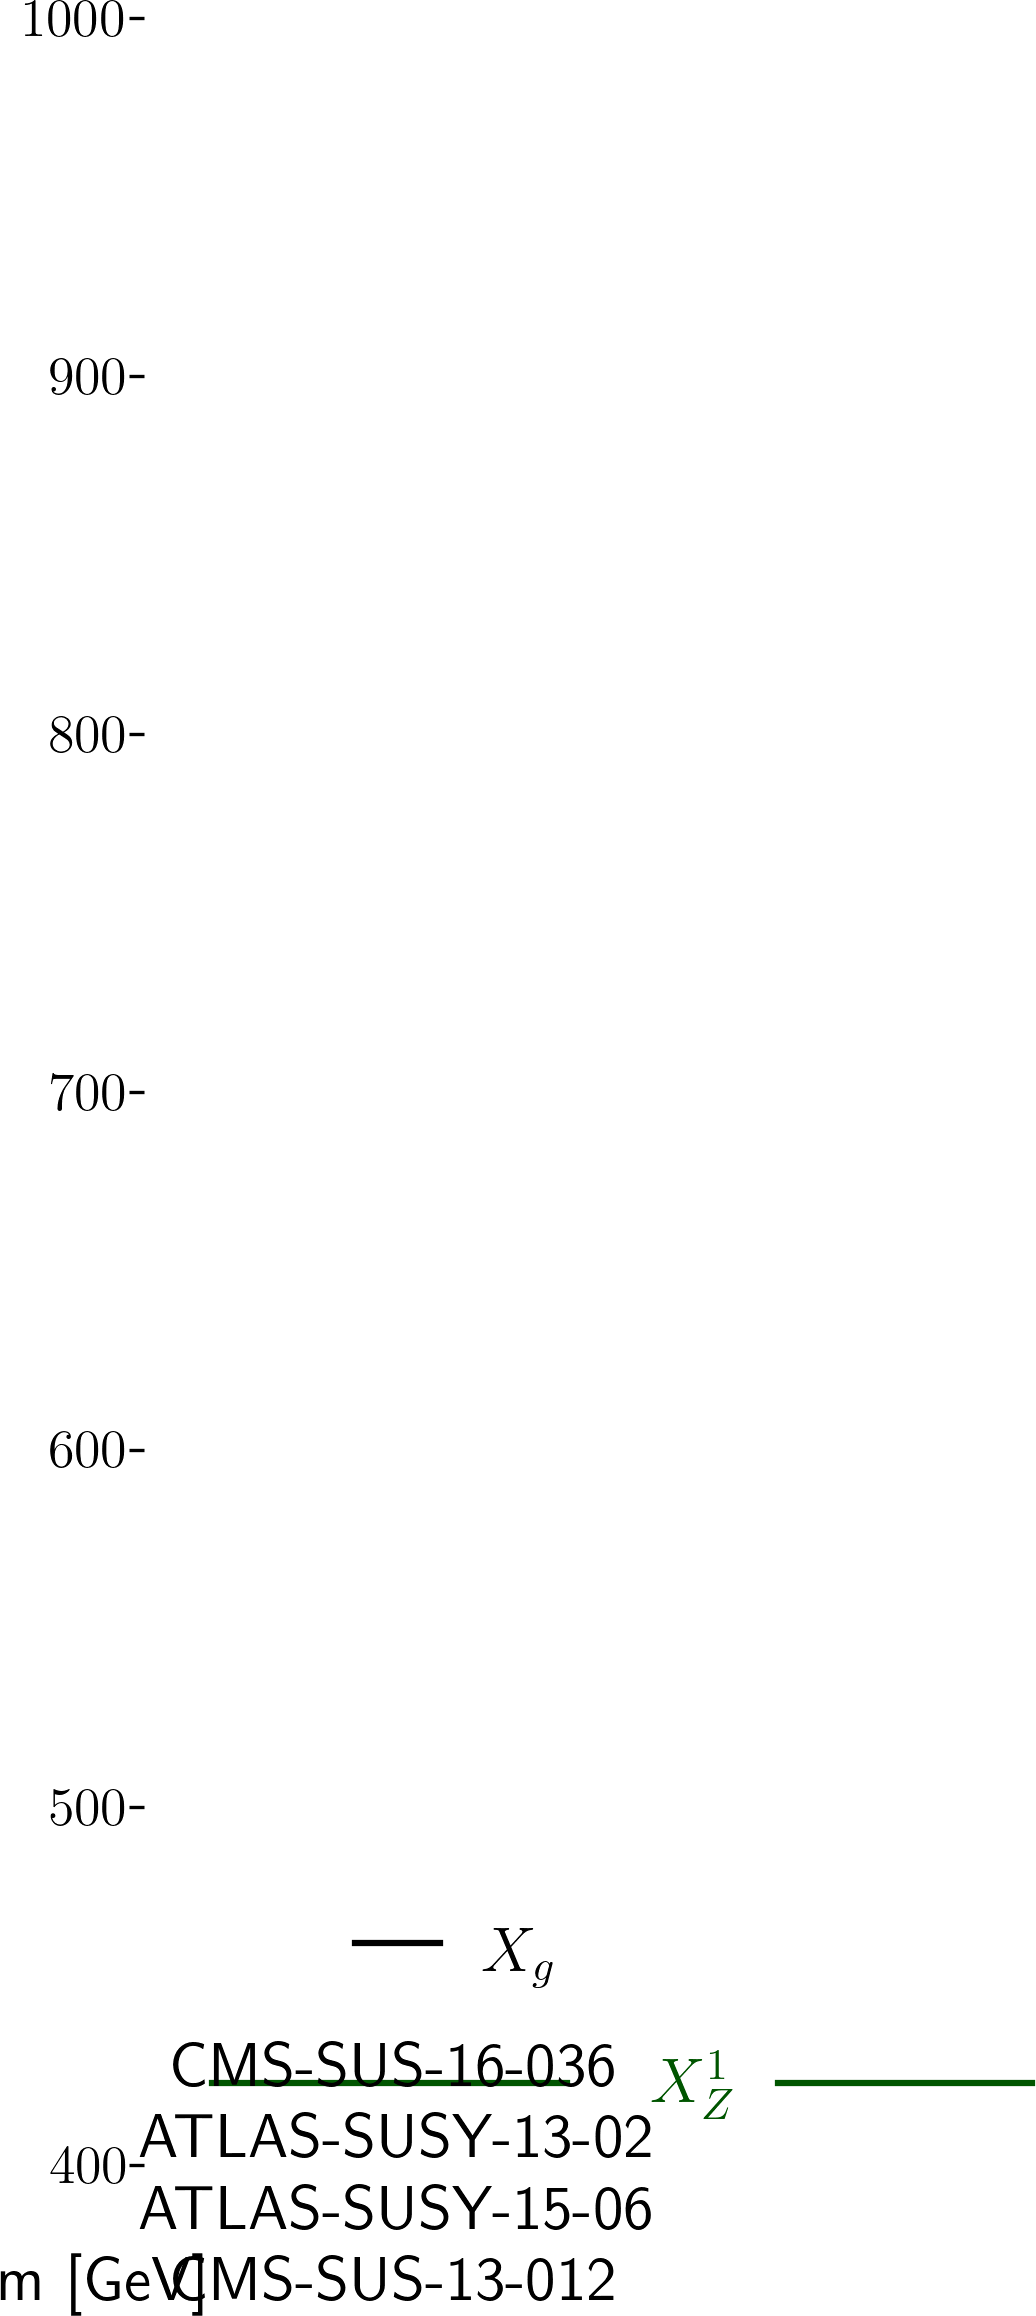
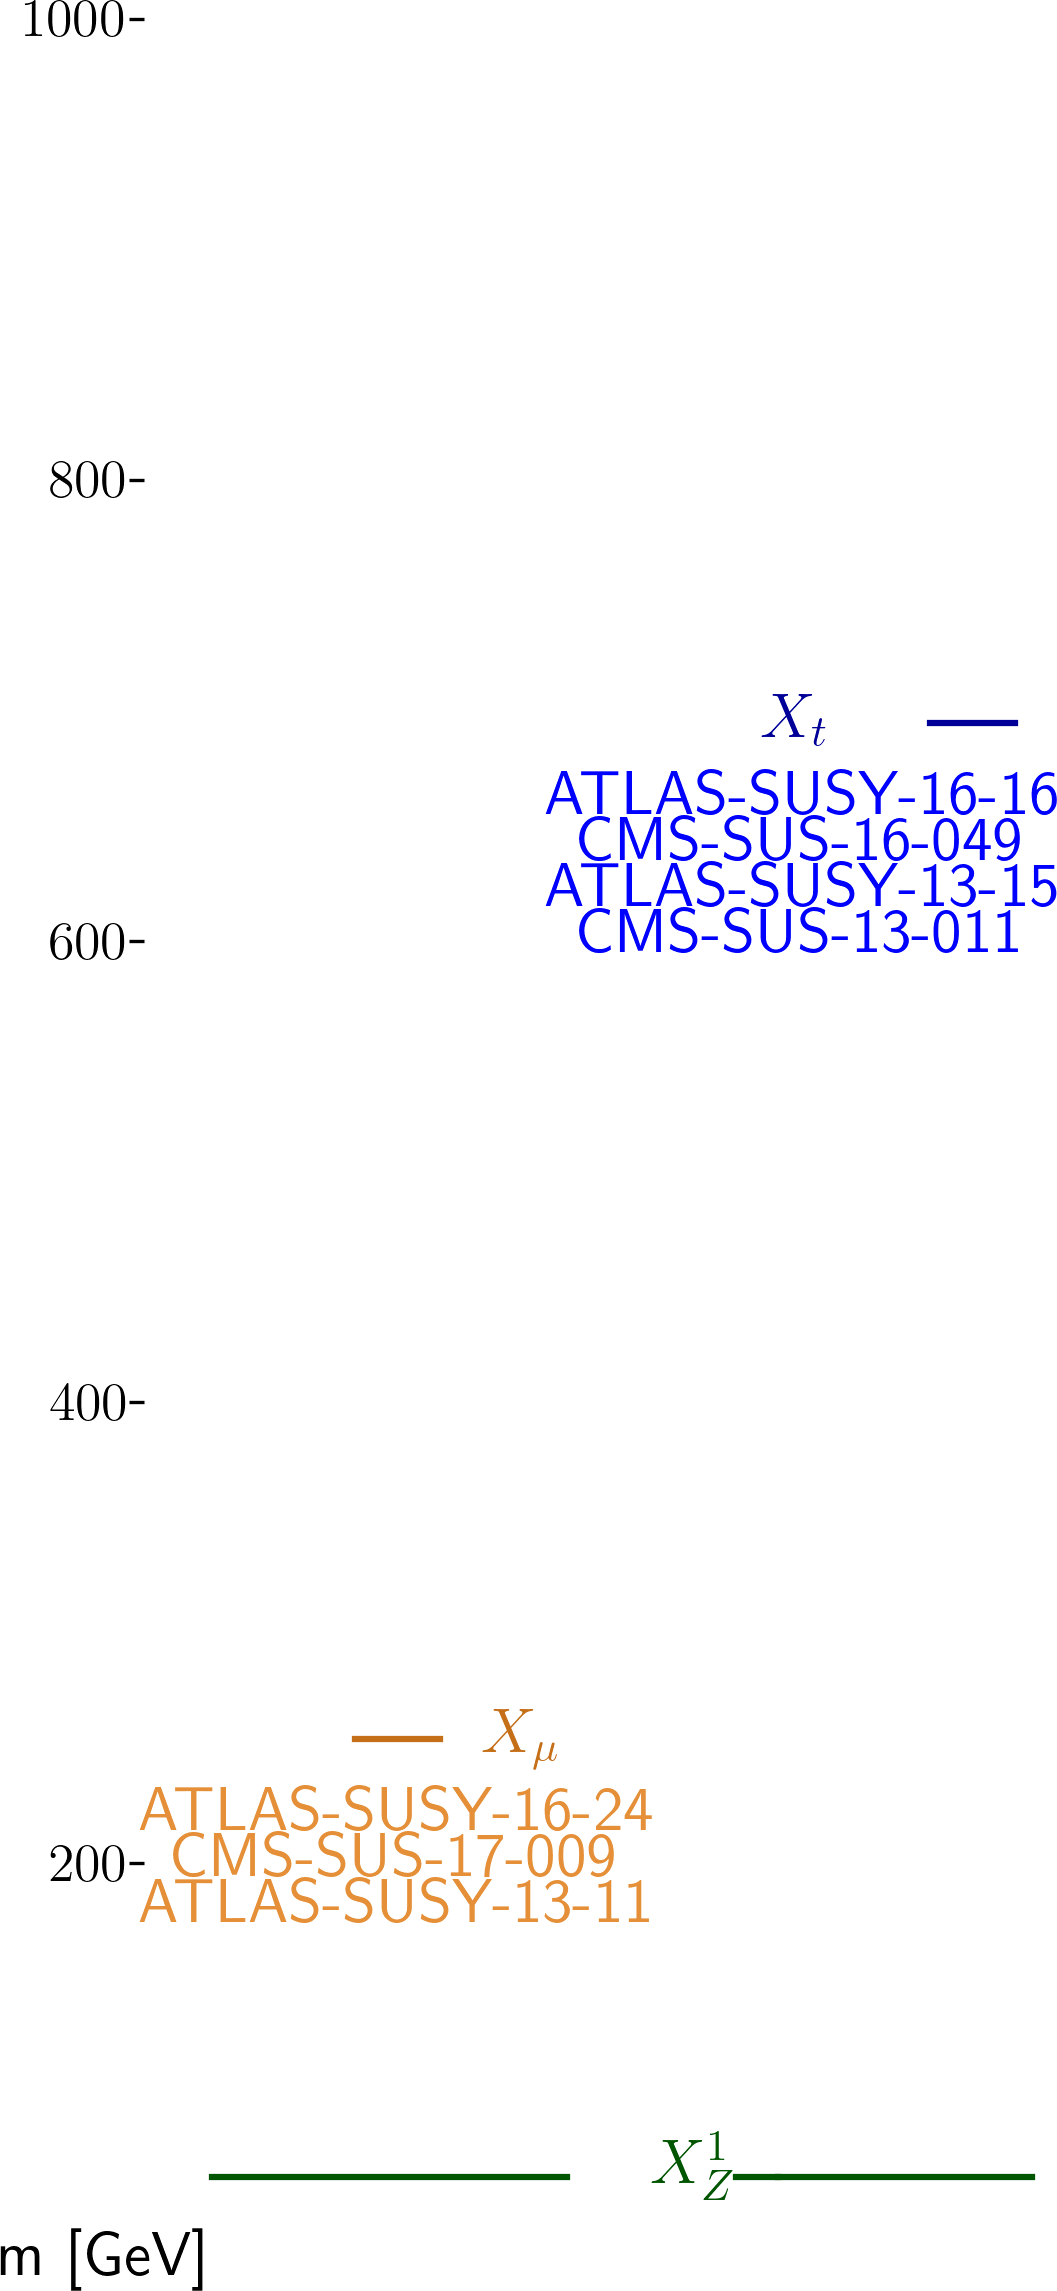
automated update by plotHiscore.py

diff --git a/protomodels/latest/index.html b/protomodels/latest/index.html
@@ -1,29 +1,32 @@
 <html>
 <body>
 <center>
-<table><td><h1>Current best protomodel: K=5.54</h1><td><img height=60px src=https://smodels.github.io/pics/banner.png></table>
+<table><td><h1>Current best protomodel: K=5.74</h1><td><img height=60px src=https://smodels.github.io/pics/banner.png></table>
 </center>
-<b><a href=./hiscore.slha>ProtoModel</a> <a href=./pmodel.py>(dict)</a> produced with <a href=https://smodels.github.io/docs/Validation124fake33>database v1.2.4fake33</a>, combination strategy <a href=./matrix_aggressive.png>aggressive</a> in walker 22 step 831.</b> K plots for: <a href=./M1000022.png?8268345>X<sub>Z</sub><sup>1</sup></a>, <a href=./M1000021.png?8268345>X<sub>g</sub></a>. HPD plots for: <a href=./llhd1000021.png?8268345>X<sub>g</sub></a>. SSM plots for: <a href=./ssm_1000021_1000021.png?8268345>(X<sub>g</sub>,X<sub>g</sub>)</a><br>
+<b><a href=./hiscore.slha>ProtoModel</a> <a href=./pmodel.py>(dict)</a> produced with <a href=https://smodels.github.io/docs/Validation124fake32>database v1.2.4fake32</a>, combination strategy <a href=./matrix_aggressive.png>aggressive</a> in walker 5 step 175.</b> K plots for: <a href=./M1000022.png?8268371>X<sub>Z</sub><sup>1</sup></a>, <a href=./M1000006.png?8268371>X<sub>t</sub></a>, <a href=./M1000013.png?8268371>X<sub>&mu;</sub></a>. HPD plots for: <a href=./llhd1000006.png?8268371>X<sub>t</sub></a>, <a href=./llhd1000013.png?8268371>X<sub>&mu;</sub></a>. SSM plots for: <a href=./ssm_-1000006_1000006.png?8268371>(x&#772;<sub>t</sub>,X<sub>t</sub>)</a><br>
 <table width=80%>
 <tr><td>
-<br><b>15 predictions available. Highest r values are:</b><br><ul>
-<li>ATLAS-SUSY-2016-07:T1,T2 r=1.30, r<sub>exp</sub>=1.34<br>
-<li>CMS-SUS-16-049:T2cc r=1.07, r<sub>exp</sub>=1.23<br>
-<li>ATLAS-SUSY-2013-02:T1,T2 r=0.86, r<sub>exp</sub>=0.66<br>
-<li>CMS-SUS-16-033:T2 r=0.85, r<sub>exp</sub>=1.18<br>
-<li>CMS-SUS-16-036:T2cc r=0.82, r<sub>exp</sub>=0.98<br>
+<br><b>36 predictions available. Highest r values are:</b><br><ul>
+<li>CMS-SUS-16-009:T2tt r=1.30, r<sub>exp</sub>=0.19<br>
+<li>CMS-SUS-17-009:TSlepSlep r=1.27, r<sub>exp</sub>=0.71<br>
+<li>ATLAS-SUSY-2016-24:TSlepSlep r=0.83, r<sub>exp</sub>=N/A<br>
+<li>CMS-SUS-16-051:T2tt r=0.80, r<sub>exp</sub>=0.55<br>
+<li>ATLAS-SUSY-2016-24:TSmuSmu r=0.58, r<sub>exp</sub>=0.51<br>
 </ul>
 <td><br><b>K values without analyses: (contribution)</b><br>
 <ul>
-<li> <a href=>ATLAS-SUSY-2015-06</a>: -2.74 (25%)
-<li> <a href=>CMS-SUS-16-036</a>: -2.76 (25%)
-<li> <a href=>CMS-SUS-13-012</a>: -2.76 (25%)
-<li> <a href=>ATLAS-SUSY-2013-02</a>: -3.25 (26%)
-<td><img width=600px src=./texdoc.png?1601268345>
-<br><font size=-1>Last updated: Mon Sep 28 06:45:45 2020</font>
+<li> <a href=>CMS-SUS-16-049</a>: 4.13 (9%)
+<li> <a href=>CMS-SUS-17-009</a>: 4.13 (9%)
+<li> <a href=>ATLAS-SUSY-2013-11</a>: 4.13 (9%)
+<li> <a href=>ATLAS-SUSY-2013-15</a>: 4.11 (9%)
+<li> <a href=>CMS-SUS-13-011</a>: 4.11 (9%)
+<li> <a href=>ATLAS-SUSY-2016-24</a>: 0.36 (29%)
+<li> <a href=>ATLAS-SUSY-2016-16</a>: 0.33 (29%)
+<td><img width=600px src=./texdoc.png?1601268371>
+<br><font size=-1>Last updated: Mon Sep 28 06:46:11 2020</font>
 </table><table style="width:80%">
-<td width=45%><img height=580px src=./ruler.png?1601268345><td width=55%><img height=380px src=./decays.png?1601268345>
-<font size=-3><iframe type="text/html" height="220px" width="100%s" frameborder="0" src="./rawnumbers.html?1601268345"></iframe></font>
+<td width=45%><img height=580px src=./ruler.png?1601268371><td width=55%><img height=380px src=./decays.png?1601268371>
+<font size=-3><iframe type="text/html" height="220px" width="100%s" frameborder="0" src="./rawnumbers.html?1601268371"></iframe></font>
 </table>
 </body>
 </html>

diff --git a/protomodels/latest/rawnumbers.html b/protomodels/latest/rawnumbers.html
@@ -1,8 +1,11 @@
 <table>
 <tr><th>Analysis Name</th><th>Type</th><th>Dataset</th><th>Topos</th><th>Observed</th><th>Expected</th><th>Approx &sigma;</th><th>Particles</th>
 </tr>
-<tr><td>ATLAS-SUSY-2013-02</td><td>em</td> <td>SR6jtp</td><td>T1, T2</td><td>7</td><td>4.9 +/- 1.6</td><td style="text-align:right">0.8 &sigma;</td><td style="text-align:right">X<sub>g</sub></td></tr>
-<tr><td>ATLAS-SUSY-2015-06</td><td>em</td> <td>SR4jt</td><td>T2</td><td>4</td><td>4.1 +/- 1.1</td><td style="text-align:right">-0.0 &sigma;</td><td style="text-align:right">X<sub>g</sub></td></tr>
-<tr><td>CMS-SUS-13-012</td><td>ul</td> <td>-</td><td>T1</td><td> 3624.5 fb </td><td> 1603.4 fb</td><td style="text-align:right">2.5 &sigma;</td><td style="text-align:right">X<sub>g</sub></td></tr>
-<tr><td>CMS-SUS-16-036</td><td>ul</td> <td>-</td><td>T2</td><td> 2069.3 fb </td><td> 1163.2 fb</td><td style="text-align:right">1.5 &sigma;</td><td style="text-align:right">X<sub>g</sub></td></tr>
+<tr><td>ATLAS-SUSY-2013-11</td><td>em</td> <td>Zjets</td><td>TSlepSlep</td><td>4</td><td>1.4 +/- 0.6</td><td style="text-align:right">2.0 &sigma;</td><td style="text-align:right">X<sub>&mu;</sub></td></tr>
+<tr><td>ATLAS-SUSY-2013-15</td><td>em</td> <td>tNboost</td><td>T2tt</td><td>4</td><td>3.3 +/- 0.7</td><td style="text-align:right">0.4 &sigma;</td><td style="text-align:right">X<sub>t</sub></td></tr>
+<tr><td>ATLAS-SUSY-2016-16</td><td>em</td> <td>tN_med</td><td>T2tt</td><td>55</td><td>36.3 +/- 6.6</td><td style="text-align:right">2.1 &sigma;</td><td style="text-align:right">X<sub>t</sub></td></tr>
+<tr><td>ATLAS-SUSY-2016-24</td><td>em</td> <td>SR2-SF-loose</td><td>TSmuSmu</td><td>183</td><td>133 +/- 22</td><td style="text-align:right">2.0 &sigma;</td><td style="text-align:right">X<sub>&mu;</sub></td></tr>
+<tr><td>CMS-SUS-13-011</td><td>em</td> <td>LM150</td><td>T2tt</td><td>274</td><td>251 +/- 50</td><td style="text-align:right">0.4 &sigma;</td><td style="text-align:right">X<sub>t</sub></td></tr>
+<tr><td>CMS-SUS-16-049</td><td>ul</td> <td>-</td><td>T2tt</td><td> 16.5 fb </td><td> 10.1 fb</td><td style="text-align:right">1.2 &sigma;</td><td style="text-align:right">X<sub>t</sub></td></tr>
+<tr><td>CMS-SUS-17-009</td><td>ul</td> <td>-</td><td>TSmuSmu</td><td> 8.8 fb </td><td> 6.0 fb</td><td style="text-align:right">0.9 &sigma;</td><td style="text-align:right">X<sub>&mu;</sub></td></tr>
 </table>

diff --git a/protomodels/latest/pmodel.py b/protomodels/latest/pmodel.py
@@ -1,1 +1,1 @@
-{'masses': {1000022: 412.933, 1000021: 452.035}, 'ssmultipliers': {(1000022, 1000022): 5442.234, (1000021, 1000021): 0.305, (1000021, 1000022): 1.132}, 'decays': {1000022: {}, 1000021: {(1000022, 5): 0.136, (1000022, 1): 0.318, (1000022, 21): 0.233, (1000022, 4): 0.312}}, 'timestamp': 'Mon Sep 28 06:45:37 2020', 'Z': 2.965, 'K': 5.541, 'step': 831, 'codever': '1.0', 'dbver': '1.2.4fake33'}
+{'masses': {1000022: 54.029, 1000006: 684.571, 1000013: 243.924}, 'ssmultipliers': {(1000022, 1000022): 0.0, (1000006, 1000006): 0.105, (-1000006, 1000006): 0.105, (-1000006, -1000006): 0.105, (1000006, 1000022): 0.105, (-1000006, 1000022): 0.105, (1000013, 1000013): 1.003, (-1000013, 1000013): 1.003, (-1000013, -1000013): 1.003, (1000013, 1000022): 1.003, (-1000013, 1000022): 1.003, (1000006, 1000013): 1.003, (-1000013, 1000006): 1.003, (-1000006, 1000013): 1.003, (-1000013, -1000006): 1.003}, 'decays': {1000022: {}, 1000006: {(1000022, 6): 1.0}, 1000013: {(1000022, 13): 1.0}}, 'timestamp': 'Mon Sep 28 06:46:00 2020', 'Z': 3.04, 'K': 5.74, 'step': 175, 'codever': '1.0', 'dbver': '1.2.4fake32'}
